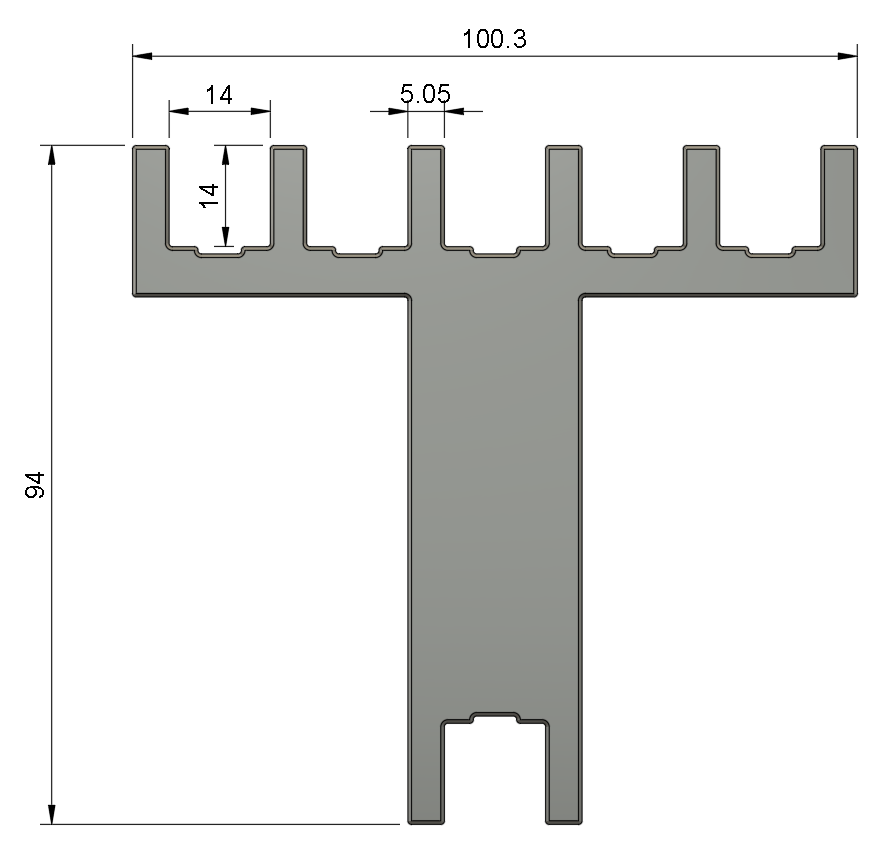
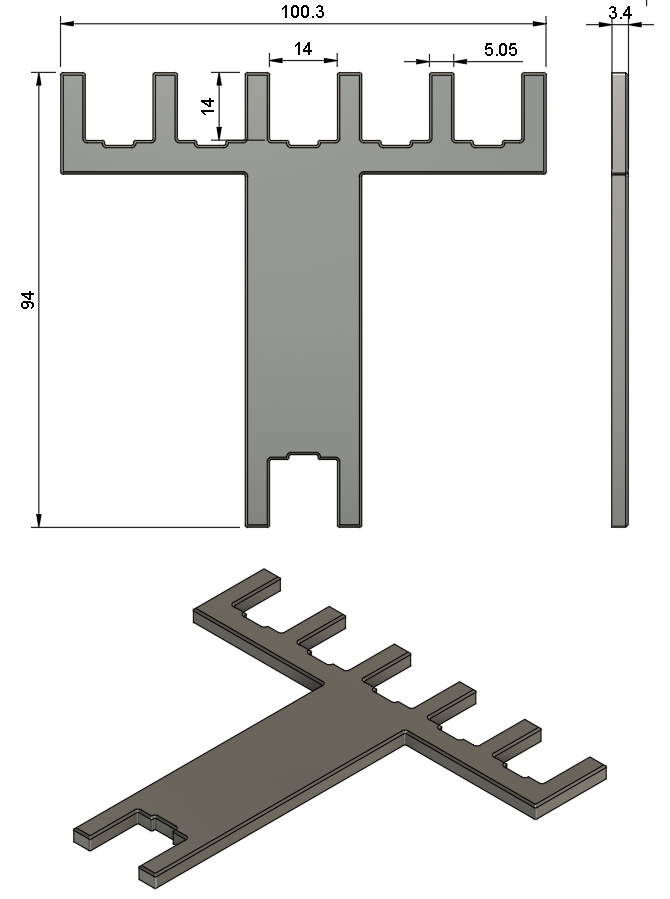
added readme and updated dimensions img

diff --git a/README.md b/README.md
@@ -1,0 +1,13 @@
+# Plate Fork
+
+A keyboard build tool. The plate fork primarily prevents plates from flexing at switch insertion points.
+Intended for usage with MX switches and 1.5mm plates.
+
+# Fork Dimensions
+Units: mm
+
+![Plate Fork](fork_dimensions.png)
+
+# Notes
+
+-All files are to be used at your own risk
